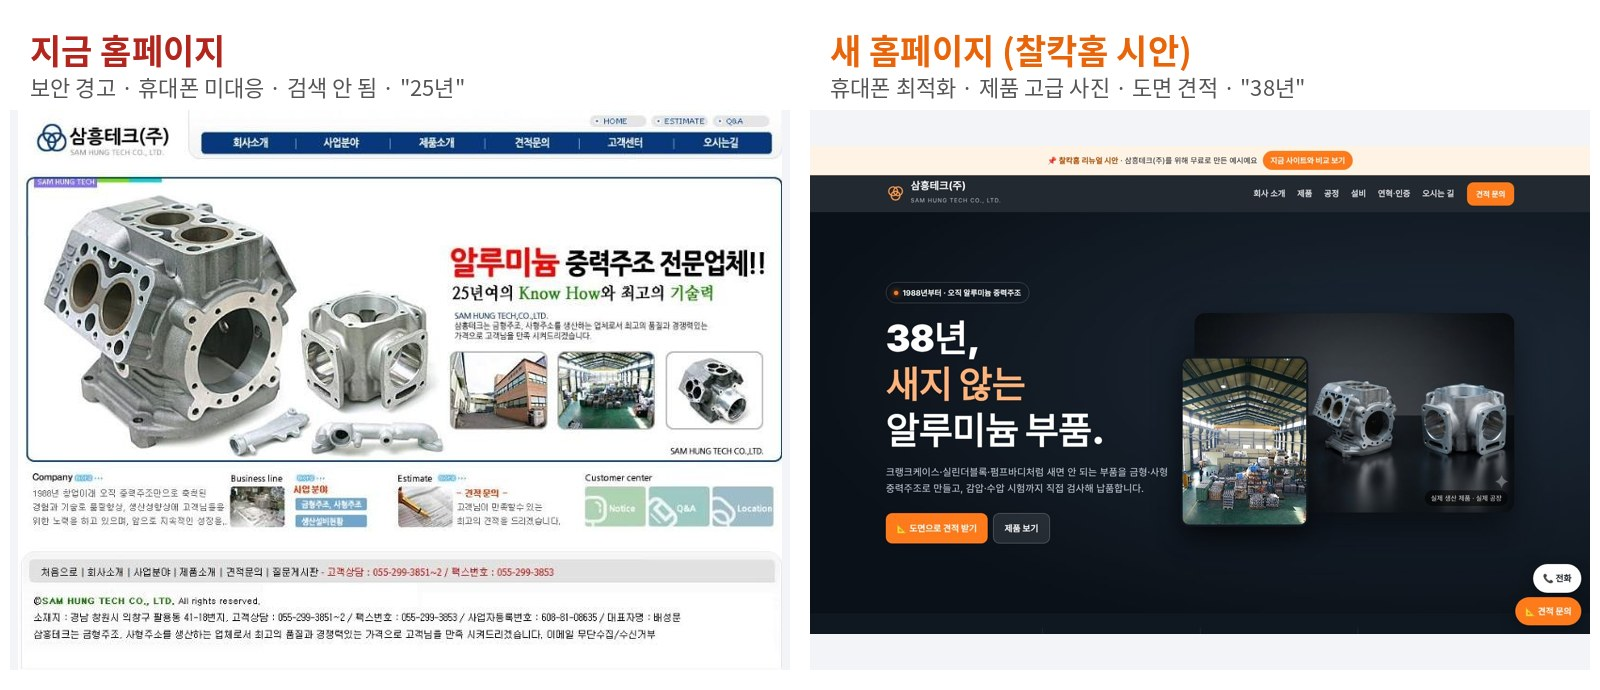
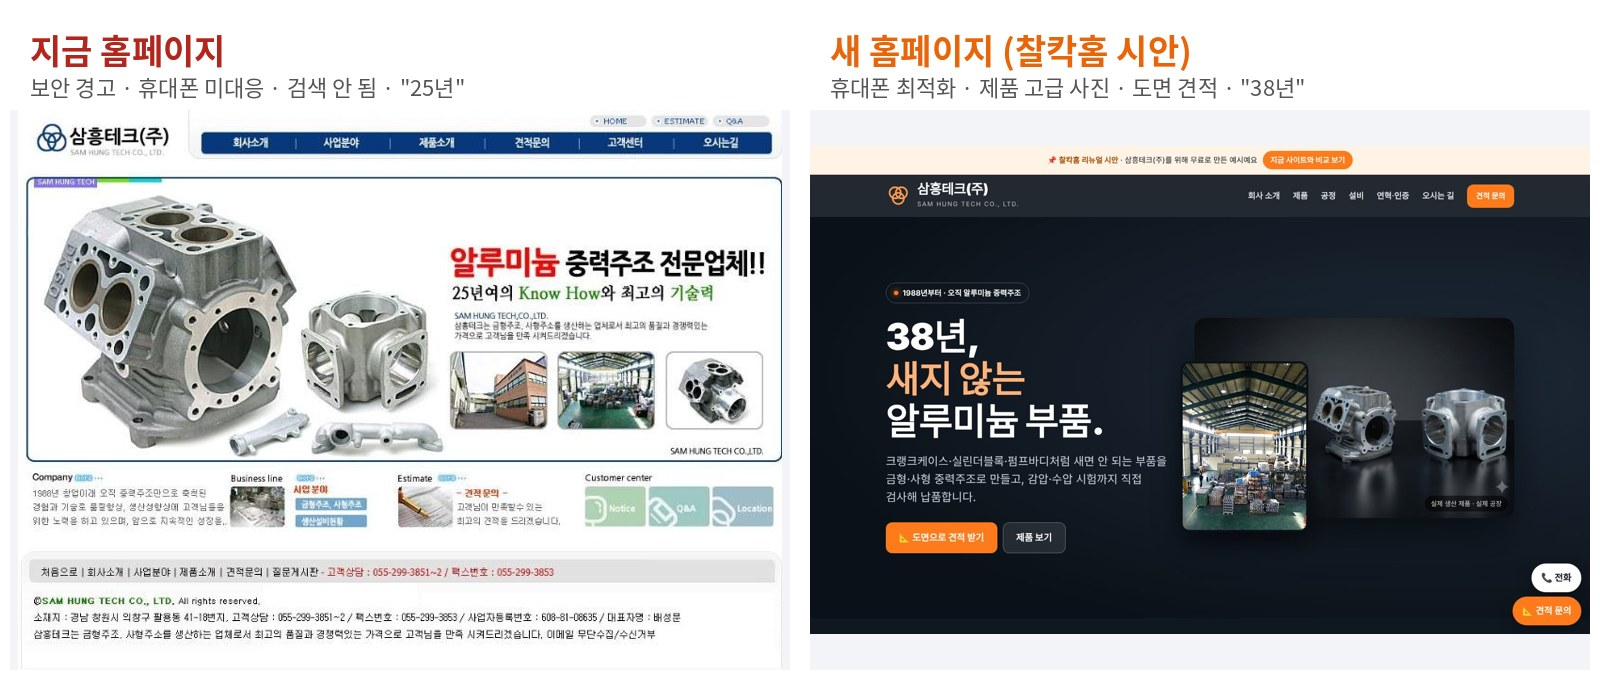
samhung: v2 photos, type scale, map card; design rules
Claude-Session: https://claude.ai/code/session_01D8ERGz5r4FPkuXoKDYhqRw

diff --git a/_stage/samhung/site/index.html b/_stage/samhung/site/index.html
@@ -24,14 +24,14 @@ section{padding:90px 0}
 .pb b{color:#B24A00}.pb button{border:0;background:var(--or);color:#fff;font:inherit;font-weight:800;border-radius:99px;padding:6px 14px;cursor:pointer}
 
 header{position:sticky;top:0;z-index:40;background:rgba(15,23,32,.92);backdrop-filter:blur(8px);color:#fff}
-header .w{display:flex;align-items:center;gap:24px;height:68px}
-.logo{display:flex;align-items:center;gap:10px}.logo svg{width:36px;height:36px}.logo b{font-size:19px;display:block;line-height:1.1}.logo small{font-size:10.5px;letter-spacing:.12em;opacity:.65}
+header .w{display:flex;align-items:center;gap:24px;height:78px}
+.logo{display:flex;align-items:center;gap:12px}.logo svg{width:46px;height:46px}.logo b{font-size:25px;font-weight:900;display:block;line-height:1.05;letter-spacing:-.02em}.logo small{font-size:11.5px;letter-spacing:.14em;opacity:.7}
 nav{margin-left:auto;display:flex;gap:22px;font-size:15px;font-weight:600}nav a{opacity:.85}nav a:hover{opacity:1;color:var(--or2)}
 header .btn{padding:10px 16px;font-size:14px}
-@media(max-width:900px){nav{display:none}header .btn{margin-left:auto}}
+@media(max-width:900px){nav{display:none}header .btn{margin-left:auto}.logo b{font-size:21px}.logo svg{width:38px;height:38px}}
 
 .hero{position:relative;color:#fff;background:radial-gradient(1200px 500px at 80% 40%,#1E2A38,#0B1118);min-height:min(86vh,740px);display:flex;align-items:center;overflow:hidden}
-.hero .hg{display:grid;grid-template-columns:1fr 1.1fr;gap:34px;align-items:center}.hero .vis{position:relative}.hero .vis .a{border-radius:20px;overflow:hidden;box-shadow:0 30px 70px rgba(0,0,0,.5);aspect-ratio:16/10;background:#0B1118 url(img/prod1.jpg) center/cover}.hero .vis .b{position:absolute;left:-26px;bottom:-26px;width:40%;aspect-ratio:3/4;border-radius:16px;border:4px solid #0F1720;background:#222 url(img/up_plant1.jpg) center/cover;box-shadow:0 20px 40px rgba(0,0,0,.45)}.hero .vis small{position:absolute;right:12px;bottom:12px;background:rgba(0,0,0,.55);border-radius:99px;padding:5px 11px;font-size:12px;color:#ddd}
+.hero .hg{display:grid;grid-template-columns:1fr 1.1fr;gap:34px;align-items:center}.hero .vis{position:relative}.hero .vis .a{border-radius:20px;overflow:hidden;box-shadow:0 30px 70px rgba(0,0,0,.5);aspect-ratio:16/10;background:#0B1118 url(img/prod1.jpg) center/cover}.hero .vis .b{position:absolute;left:-26px;bottom:-26px;width:40%;aspect-ratio:3/4;border-radius:16px;border:4px solid #0F1720;background:#222 url(img/v2_plant1.jpg) center/cover;box-shadow:0 20px 40px rgba(0,0,0,.45)}.hero .vis small{position:absolute;right:12px;bottom:12px;background:rgba(0,0,0,.55);border-radius:99px;padding:5px 11px;font-size:12px;color:#ddd}
 .hero .w{position:relative;width:100%;padding-block:80px}
 .hero .ey{display:inline-flex;gap:8px;align-items:center;border:1px solid rgba(255,255,255,.25);border-radius:99px;padding:7px 14px;font-size:14px;font-weight:700;margin-bottom:22px}.hero .ey i{width:8px;height:8px;border-radius:50%;background:var(--or);box-shadow:0 0 12px var(--or)}
 .hero h1{font-size:clamp(38px,5.4vw,68px);font-weight:900;max-width:12em}.hero h1 em{font-style:normal;color:var(--or2)}
@@ -47,7 +47,7 @@ header .btn{padding:10px 16px;font-size:14px}
 /* 강점 */
 .why{display:grid;grid-template-columns:1.15fr 1fr;gap:28px;align-items:stretch}
 .why .ph{border-radius:22px;overflow:hidden;min-height:420px;background:#111 center/cover}
-.ph2{display:grid;gap:12px;grid-template-columns:1fr 1fr}.ph2 .ph{min-height:200px}
+.ph2{display:grid;gap:12px;grid-template-columns:1fr 1fr}.ph2 .ph,.cm2 .im,.stv img,.hero .vis .b{filter:saturate(.85) contrast(1.06) brightness(1.02)}.ph2 .ph{position:relative}.ph2 .ph:after{content:"";position:absolute;inset:0;background:linear-gradient(180deg,transparent 55%,rgba(15,23,32,.55));border-radius:inherit}.ph2 .ph{min-height:200px}
 .wl{display:grid;gap:14px}.wl div{border:1px solid var(--ln);border-radius:18px;padding:22px 22px 20px;background:#fff}
 .wl b{display:flex;gap:10px;align-items:center;font-size:19px}.wl b i{font-style:normal;width:34px;height:34px;border-radius:10px;background:#FFF1E6;display:grid;place-items:center;font-size:17px}
 .wl p{margin:8px 0 0;color:var(--mu)}
@@ -82,7 +82,7 @@ header .btn{padding:10px 16px;font-size:14px}
 
 /* 설비 */
 .eqg{display:grid;grid-template-columns:repeat(4,1fr);gap:12px}
-.eqc{border:1px solid var(--ln);border-radius:16px;padding:18px;background:#fff}.eqc span{font-size:13px;color:var(--mu)}.eqc b{display:block;font-size:26px;font-weight:900}.eqc b small{font-size:14px;color:var(--mu);font-weight:700}.eqc p{margin:4px 0 0;font-size:14px;color:var(--st)}
+.eqc{border:1px solid var(--ln);border-radius:16px;padding:18px;background:#fff;position:relative}.eqc .ei{position:absolute;right:14px;top:14px;font-style:normal;width:38px;height:38px;border-radius:12px;background:#FFF1E6;display:grid;place-items:center;font-size:18px}.eqc span{font-size:13px;color:var(--mu)}.eqc b{display:block;font-size:26px;font-weight:900}.eqc b small{font-size:14px;color:var(--mu);font-weight:700}.eqc p{margin:4px 0 0;font-size:14px;color:var(--st)}
 .eqmore{margin-top:14px;border:0;background:none;color:var(--bl);font:inherit;font-weight:800;cursor:pointer;padding:0}
 @media(max-width:860px){.eqg{grid-template-columns:1fr 1fr}}
 
@@ -100,7 +100,7 @@ header .btn{padding:10px 16px;font-size:14px}
 @media(max-width:760px){.cta{grid-template-columns:1fr;padding:28px}.cta .row{justify-content:flex-start}}
 
 .loc{display:grid;grid-template-columns:1fr 1fr;gap:20px;align-items:stretch}
-.map{border-radius:20px;background:#E9EEF3 url(img/up_plant2.jpg) center/cover;min-height:300px;position:relative;overflow:hidden}.map a{position:absolute;left:16px;bottom:16px}
+.map{border-radius:20px;background:#1B2633;min-height:300px;position:relative;overflow:hidden}.mapv svg{position:absolute;inset:0;width:100%;height:100%}.pin{position:absolute;left:50%;top:44%;transform:translate(-50%,-100%);background:#fff;border-radius:14px;padding:10px 14px;box-shadow:0 14px 30px rgba(0,0,0,.35);text-align:center}.pin:after{content:"";position:absolute;left:50%;bottom:-8px;margin-left:-8px;border:8px solid transparent;border-top-color:#fff;border-bottom:0}.pin i{position:absolute;left:50%;bottom:-26px;width:14px;height:14px;margin-left:-7px;border-radius:50%;background:var(--or);box-shadow:0 0 0 6px rgba(255,122,26,.25)}.pin b{display:block;font-size:15px}.pin small{color:var(--mu);font-size:12px}.map .btn{z-index:2}.map a{position:absolute;left:16px;bottom:16px}
 .lt{border:1px solid var(--ln);border-radius:20px;padding:8px 22px}.lt div{display:flex;gap:16px;padding:14px 0;border-bottom:1px solid var(--ln)}.lt div:last-child{border:0}.lt span{width:80px;flex:none;color:var(--mu);font-size:14.5px}.lt b{font-weight:700}
 @media(max-width:760px){.loc{grid-template-columns:1fr}}
 
@@ -138,6 +138,30 @@ footer{background:#0B1118;color:#8696A8;font-size:13.5px;padding:34px 0 90px}foo
 .ba ul{margin:0;padding-left:18px;font-size:14.5px}.ba .bad li{color:#B3261E}.ba .good li{color:#1E6B3A}
 .offer{margin-top:18px;background:#FFF8F2;border:1px solid #FFD9B8;border-radius:16px;padding:16px 18px}.offer b{font-size:16px}.offer ul{margin:8px 0 0;padding-left:18px;color:var(--st);font-size:14.5px}
 @media(max-width:760px){.ba{grid-template-columns:1fr}}
+
+/* 심미 규칙 (11/19 학습: 4단계 글자 · 8px 간격 · 60/30/10 색) */
+:root{--t1:15px;--t2:17px;--t3:21px;--t4:40px}
+body{font-size:var(--t2);line-height:1.6}
+h1,h2,h3{line-height:1.15}
+.k{font-size:var(--t1);letter-spacing:.14em}
+.sh{margin-bottom:48px}.sh h2{font-size:var(--t4)}.sh p{font-size:var(--t2);margin-top:16px}
+section{padding:96px 0}
+.hero p{font-size:var(--t3);line-height:1.55;max-width:28em}
+.kpi div{padding:32px 24px}.kpi b{font-size:var(--t4);line-height:1}.kpi b small{font-size:var(--t3)}.kpi span{font-size:var(--t1);color:#B3C1D1;display:block;margin-top:8px}
+.wl{gap:16px}.wl div{padding:24px}.wl b{font-size:var(--t3)}.wl p{font-size:var(--t2);margin-top:8px}
+.pc .tx{padding:16px}.pc b{font-size:var(--t3)}.pc small{font-size:var(--t1)}.pc .tg{font-size:var(--t1);padding:4px 12px}
+.more{font-size:var(--t2);margin-top:24px}
+.flow{gap:16px}.st{padding:24px}.st:before{font-size:var(--t1)}.st b{font-size:var(--t3);margin:8px 0 4px}.st small{font-size:var(--t1)}.st .eq{font-size:var(--t1);margin-top:16px;padding:4px 8px}
+.cmp{gap:24px}.cm2 .bd{padding:24px}.cm2 h3{font-size:var(--t3)}.cm2 ul{font-size:var(--t2)}.cm2 .fit{font-size:var(--t1);margin-top:16px;padding:8px 16px}
+.eqg{gap:16px}.eqc{padding:24px}.eqc span{font-size:var(--t1);color:var(--mu);font-weight:600}.eqc b{font-size:var(--t4);margin-top:8px;line-height:1.1}.eqc b small{font-size:var(--t2)}.eqc p{font-size:var(--t1);margin-top:8px;color:var(--mu)}
+.ind{gap:8px}.ind span{font-size:var(--t2);padding:16px 24px}
+.tl{gap:16px}.tl b{font-size:var(--t3)}.tl p{font-size:var(--t1)}.certs{gap:8px;margin-top:32px}.certs span{font-size:var(--t1);padding:8px 16px}
+.cta{padding:48px}.cta h2{font-size:32px}.cta p{font-size:var(--t2);margin-top:16px}
+.lt{padding:8px 24px}.lt div{padding:16px 0}.lt span{font-size:var(--t1);width:96px}.lt b{font-size:var(--t2)}
+footer{font-size:var(--t1);line-height:1.8}
+nav{font-size:var(--t1);gap:24px}
+.btn{font-size:var(--t2);padding:14px 24px}
+@media(max-width:760px){:root{--t2:16px;--t3:19px;--t4:32px}section{padding:64px 0}.cta{padding:32px 24px}.cta h2{font-size:26px}}
 </style></head><body>
 
 <div class="pb"><div class="w"><span>📌 <b>찰칵홈 리뉴얼 시안</b> · 삼흥테크(주)를 위해 무료로 만든 예시예요</span><button data-open="ba">지금 사이트와 비교 보기</button></div></div>
@@ -166,7 +190,7 @@ footer{background:#0B1118;color:#8696A8;font-size:13.5px;padding:34px 0 90px}foo
 <section id="why"><div class="w">
  <div class="sh"><span class="k">WHY SAM HUNG</span><h2>주조부터 검사까지, 한 공장에서</h2><p>용해부터 주조, 절단·사상, 쇼트, 기밀 시험까지 모든 공정을 팔용동 공장에서 직접 합니다. 그래서 품질도 일정도 저희가 책임집니다.</p></div>
  <div class="why">
-  <div class="ph2"><div class="ph" style="background-image:url(img/up_casting.jpg)"></div><div class="ph" style="background-image:url(img/up_hydro.jpg)"></div></div>
+  <div class="ph2"><div class="ph" style="background-image:url(img/v2_casting.jpg)"></div><div class="ph" style="background-image:url(img/v2_hydro.jpg)"></div></div>
   <div class="wl">
    <div><b><i>💧</i>새지 않게, 검사로 증명</b><p>압축기·펌프용 부품은 작은 기공에도 샙니다. 감압 TEST기와 수압 TEST기로 기밀을 직접 확인합니다.</p></div>
    <div><b><i>⚙</i>금형 · 사형 둘 다</b><p>수량이 많고 정밀하면 금형주조, 크거나 모양이 복잡하면 사형주조. 부품에 맞는 공법을 같이 골라 드립니다.</p></div>
@@ -190,7 +214,7 @@ footer{background:#0B1118;color:#8696A8;font-size:13.5px;padding:34px 0 90px}foo
 <section class="alt"><div class="w">
  <div class="sh"><span class="k">METHOD</span><h2>금형주조와 사형주조, 어떤 게 맞을까요?</h2></div>
  <div class="cmp">
-  <div class="cm2"><div class="im" style="background-image:url(img/up_pouring.jpg);background-position:center 30%"></div><div class="bd"><h3>금형(중력)주조</h3><ul><li>쇳물을 금속 금형에 중력으로 부어 굳힘</li><li>표면이 매끄럽고 치수가 일정</li><li>같은 부품을 반복 생산할 때 단가가 내려감</li></ul><div class="fit">👉 크랭크케이스 · 실린더블록 · 펌프바디처럼 정밀 · 양산 부품</div></div></div>
+  <div class="cm2"><div class="im" style="background-image:url(img/v2_pouring.jpg);background-position:center 30%"></div><div class="bd"><h3>금형(중력)주조</h3><ul><li>쇳물을 금속 금형에 중력으로 부어 굳힘</li><li>표면이 매끄럽고 치수가 일정</li><li>같은 부품을 반복 생산할 때 단가가 내려감</li></ul><div class="fit">👉 크랭크케이스 · 실린더블록 · 펌프바디처럼 정밀 · 양산 부품</div></div></div>
   <div class="cm2"><div class="im" style="background-image:url(img/p_cover.jpg)"></div><div class="bd"><h3>사형주조</h3><ul><li>모래로 만든 틀에 쇳물을 부어 성형</li><li>큰 부품, 복잡한 모양도 가능</li><li>금형비 부담이 적어 소량 · 시제품에 유리</li></ul><div class="fit">👉 커버 · 대형 하우징 · 소량 · 개발 단계 부품</div></div></div>
  </div>
 </div></section>
@@ -198,14 +222,14 @@ footer{background:#0B1118;color:#8696A8;font-size:13.5px;padding:34px 0 90px}foo
 <section id="eq"><div class="w">
  <div class="sh"><span class="k">FACILITIES</span><h2>설비 현황</h2></div>
  <div class="eqg">
-  <div class="eqc"><span>주조기</span><b>8<small> 대</small></b><p>금형 중력주조</p></div>
-  <div class="eqc"><span>보온로 (전기로)</span><b>8<small> 기</small></b><p>150 ~ 500kg</p></div>
-  <div class="eqc"><span>용해로 (경동식 GAS)</span><b>350<small> kg</small></b><p>GAS 처리장치 2대</p></div>
-  <div class="eqc"><span>기밀 시험</span><b>2<small> 종</small></b><p>감압 · 수압 TEST기</p></div>
-  <div class="eqc"><span>절단</span><b>5<small> 대</small></b><p>띠톱 3 · CUTTING M/C 2</p></div>
-  <div class="eqc"><span>SHOT기 (행거식)</span><b>2<small> 대</small></b><p>1200×1600×900</p></div>
-  <div class="eqc"><span>탈사기 · 교반기</span><b>5<small> 대</small></b><p>사형주조 라인</p></div>
-  <div class="eqc"><span>가공 · 보조</span><b>11<small> 대</small></b><p>선반 · 드릴 · 용접 · 컴프레서</p></div>
+  <div class="eqc"><em class="ei">⚙</em><span>주조기</span><b>8<small> 대</small></b><p>금형 중력주조</p></div>
+  <div class="eqc"><em class="ei">🔥</em><span>보온로 (전기로)</span><b>8<small> 기</small></b><p>150 ~ 500kg</p></div>
+  <div class="eqc"><em class="ei">🫕</em><span>용해로 (경동식 GAS)</span><b>350<small> kg</small></b><p>GAS 처리장치 2대</p></div>
+  <div class="eqc"><em class="ei">💧</em><span>기밀 시험</span><b>2<small> 종</small></b><p>감압 · 수압 TEST기</p></div>
+  <div class="eqc"><em class="ei">🪚</em><span>절단</span><b>5<small> 대</small></b><p>띠톱 3 · CUTTING M/C 2</p></div>
+  <div class="eqc"><em class="ei">✨</em><span>SHOT기 (행거식)</span><b>2<small> 대</small></b><p>1200×1600×900</p></div>
+  <div class="eqc"><em class="ei">⛏</em><span>탈사기 · 교반기</span><b>5<small> 대</small></b><p>사형주조 라인</p></div>
+  <div class="eqc"><em class="ei">🔧</em><span>가공 · 보조</span><b>11<small> 대</small></b><p>선반 · 드릴 · 용접 · 컴프레서</p></div>
  </div>
  <button class="eqmore" data-open="eqall">전체 설비 목록 보기 →</button>
  <div class="sh" style="margin:56px 0 18px"><span class="k">INDUSTRIES</span><h2 style="font-size:28px">이런 곳에 들어갑니다</h2></div>
@@ -233,7 +257,7 @@ footer{background:#0B1118;color:#8696A8;font-size:13.5px;padding:34px 0 90px}foo
 <section id="loc" style="padding-top:20px"><div class="w">
  <div class="sh"><span class="k">LOCATION</span><h2>오시는 길</h2></div>
  <div class="loc">
-  <div class="map"><a class="btn d" href="https://map.kakao.com/?q=%EC%B0%BD%EC%9B%90%EC%8B%9C%20%EC%9D%98%EC%B0%BD%EA%B5%AC%20%ED%8C%94%EC%9A%A9%EB%8F%99%2041-18" target="_blank" rel="noopener">🗺 지도에서 보기</a></div>
+  <div class="map mapv"><svg viewBox="0 0 600 300" preserveAspectRatio="xMidYMid slice" aria-hidden="true"><rect width="600" height="300" fill="#1B2633"/><g stroke="#2B3A4A" stroke-width="10" fill="none"><path d="M-10 210 L620 150"/><path d="M120 -10 L200 320"/><path d="M380 -10 L330 320"/><path d="M-10 70 L620 40"/></g><g stroke="#33475C" stroke-width="4" fill="none"><path d="M-10 260 L620 230"/><path d="M60 -10 L90 320"/><path d="M480 -10 L520 320"/><path d="M-10 120 L620 100"/></g><text x="210" y="140" fill="#6F8399" font-size="15" font-family="sans-serif">팔용동 공단</text><text x="400" y="200" fill="#6F8399" font-size="13" font-family="sans-serif">창원대로</text></svg><span class="pin"><i></i><b>삼흥테크(주)</b><small>팔용동 41-18</small></span><a class="btn d" href="https://map.kakao.com/?q=%EC%B0%BD%EC%9B%90%EC%8B%9C%20%EC%9D%98%EC%B0%BD%EA%B5%AC%20%ED%8C%94%EC%9A%A9%EB%8F%99%2041-18" target="_blank" rel="noopener">🗺 지도에서 보기</a></div>
   <div class="lt">
    <div><span>주소</span><b>경남 창원시 의창구 팔용동 41-18</b></div>
    <div><span>전화</span><b><a href="tel:0552993851">055-299-3851</a> ~ 2</b></div>
@@ -261,12 +285,12 @@ const P=[
 const S=[
  {n:'용해',d:'알루미늄 잉곳을 녹임',eq:'경동식 GAS로 350kg',img:'img/melting.jpg',t:'용해로'},
  {n:'가스 처리',d:'쇳물 속 수소 제거 → 기공 방지',eq:'GAS 처리장치 2대',img:'img/ingot.jpg',t:'잉곳 · 용탕 관리'},
- {n:'보온',d:'주조 온도를 일정하게',eq:'전기 보온로 8기',img:'img/up_holding.jpg',t:'보온로 AL 500kg'},
- {n:'주조',d:'금형·사형에 중력으로 주입',eq:'주조기 8대',img:'img/up_casting.jpg',t:'주조 작업'},
+ {n:'보온',d:'주조 온도를 일정하게',eq:'전기 보온로 8기',img:'img/v2_holding.jpg',t:'보온로 AL 500kg'},
+ {n:'주조',d:'금형·사형에 중력으로 주입',eq:'주조기 8대',img:'img/v2_casting.jpg',t:'주조 작업'},
  {n:'탈사 · 절단',d:'모래 제거, 탕구 절단',eq:'탈사기 3 · 절단기 5',img:'img/cutting.jpg',t:'절단 작업'},
  {n:'사상 · 쇼트',d:'표면 다듬기',eq:'SHOT기 2 · G.B.F 2',img:'img/shot.jpg',t:'SHOT기'},
- {n:'기밀 시험',d:'감압 · 수압으로 누설 검사',eq:'감압 · 수압 TEST기',img:'img/up_hydro.jpg',t:'수압 TEST기',q:1},
- {n:'출하',d:'검사 완료품 포장 · 납품',eq:'공장 내 적재 · 출하',img:'img/up_plant1.jpg',t:'공장 내부 전경'}];
+ {n:'기밀 시험',d:'감압 · 수압으로 누설 검사',eq:'감압 · 수압 TEST기',img:'img/v2_hydro.jpg',t:'수압 TEST기',q:1},
+ {n:'출하',d:'검사 완료품 포장 · 납품',eq:'공장 내 적재 · 출하',img:'img/v2_plant1.jpg',t:'공장 내부 전경'}];
 const EQ=[['보온로','전기로','500kg / 300kg / 250kg / 150kg','4 / 1 / 1 / 2'],['용해로','경동식 GAS로','350kg','1'],['GAS 처리장치','','','2'],['감압 TEST기','','','1'],['주조기','','','8'],['띠톱 절단기','','2HP','3'],['CUTTING M/C','','3HP / 1.5HP','1 / 1'],['탈사기','','','3'],['교반기','','','2'],['탁상선반','','DK-32','1'],['G.B.F기','','1200×900×300','2'],['MAGNETIC 드릴','','3HP','1'],['SHOT기','행거식','1200×1600×900','2'],['COMPRESSOR','','10HP','3'],['DRILL','','1.5HP','3'],['수압 TEST기','','1700×850×350','1'],['Ar 용접기','','','1']];
 const $=s=>document.querySelector(s),E=s=>String(s).replace(/[&<>"]/g,c=>({"&":"&amp;","<":"&lt;",">":"&gt;",'"':"&quot;"}[c]));
 $('#pg').innerHTML=P.map(p=>`<button class="pc" data-c="${p.c}" data-open="p:${p.id}"><div class="im" style="background-image:url(${p.img})"></div><div class="tx"><span><b>${p.n}</b><small>${p.e}</small></span><span class="tg">${p.m}</span></div></button>`).join('');

diff --git a/_stage/design/AESTHETICS.md b/_stage/design/AESTHETICS.md
@@ -1,0 +1,23 @@
+# 찰칵홈 심미 규칙 (모든 사이트에 적용 · 계속 학습해서 보완)
+출처: Material Design 타이포 · Anthony Hobday Visual Design Quickstart · 8pt grid (freeCodeCamp)
+
+## 글자
+- 크기는 4단계만: 보조 15 · 본문 17 · 소제목 21 · 큰 제목 40 (+ 첫 화면 대제목 1개)
+- 본문 줄 간격 150~160% · 큰 제목 110~120%
+- 한 줄 60~80자 이하 (max-width:28~44em)
+- 업체 이름은 크게 (로고 글자 24px 이상) ← 민성님 원칙
+
+## 간격
+- 8px 단위: 8 · 16 · 24 · 32 · 48 · 64 · 96
+- 같은 무리는 가깝게, 다른 무리는 멀게 (안쪽 간격 < 바깥 간격)
+
+## 색
+- 60% 바탕(흰/짙은 남색) · 30% 주색 · 10% 강조색(버튼·숫자 포인트만)
+- 순검정 #000 · 순흰 #FFF 피하기
+
+## 사진
+- 한 사이트 안에서 같은 톤 (보정 필터 통일)
+- 고객 회사 사진은 진짜 사진을 보정해서 쓰기 (가짜 장면 X)
+
+## 움직임
+- 어지러운 효과 금지 (흐름·날아오기·출렁임 X) · 버튼은 화면 이동 대신 팝업
